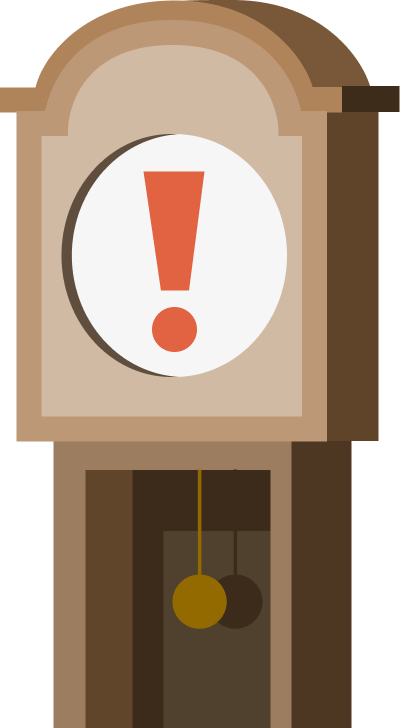
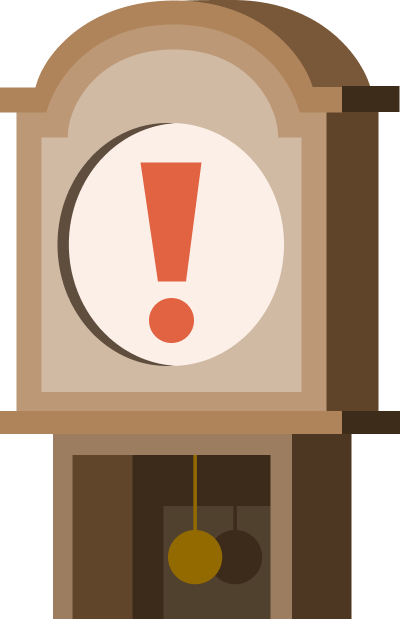
copywriting & visual changes

Changed region(s): [[0.0, 0.1842, 1.0, 1.0], [0.0, 0.0, 1.0, 0.2456], [0.48, 0.3376, 0.51, 0.3683]]

diff --git a/src/features/eventCard/IdentityPromptCard.tsx b/src/features/eventCard/IdentityPromptCard.tsx
@@ -40,26 +40,30 @@ export function IdentityPromptCard() {
   if (saved || sessionUser || storedUser?.email) return null;
 
   return (
-    /* Grid rather than a flex row, so the form can change which cells it
-       occupies without moving in the DOM: on a narrow card it spans both
-       columns (full-width fields), and once the card is wide enough it
-       drops back beside the clock, which then spans both rows and keeps
-       its full-card height. `@container` measures the card itself, not the
-       viewport — the card is the thing that runs out of room. */
+    /* Grid, so the form can change which cells it occupies without moving
+       in the DOM. On a narrow card it spans both columns and the fields get
+       the card's full width; once there is room, it drops back beside the
+       clock, which then spans both rows and runs the card's full height.
+       `@container` measures the card itself, not the viewport — the card is
+       the thing that runs out of room. */
     <section
       aria-labelledby="identity-prompt-title"
-      className="rounded-card @container mb-4 grid w-full grid-cols-[minmax(0,1fr)_auto] overflow-hidden border border-stone-200 bg-white"
+      className="rounded-card @md:bg-brand-sand @container mb-4 grid w-full grid-cols-[minmax(0,1fr)_auto] overflow-hidden border border-stone-200 bg-white"
     >
-      <div className="col-start-1 row-start-1 min-w-0 p-4 pb-0 sm:p-5 sm:pb-0">
+      {/* Stacked layout: a sand band behind the intro and the clock, ending
+          where the form begins, so the clock has a surface to stand on. The
+          boundary is the colour change itself — no rule needed. Side by
+          side the whole card is sand instead, since a band there would
+          leave an L-shaped block around the full-height clock. */}
+      <div className="bg-brand-sand col-start-1 row-start-1 min-w-0 p-4 sm:p-5">
         <h2
           id="identity-prompt-title"
-          className="text-brand-secondary text-base font-bold tracking-tight sm:text-lg"
+          className="text-brand-secondary text-base font-extrabold tracking-wide uppercase sm:text-xl"
         >
-          Konfiguroi ilmo-identiteettisi
+          Aloita täydentämällä ilmotietosi
         </h2>
         <p className="text-brand-dark mt-1 text-sm sm:text-base">
-          Nimi ja sähköposti tähän selaimeen, niin oot valmiina tappeleen
-          paikoista.
+          Näillä tiedoilla ilmoat tapahtumiin jatkossa automaattisesti
         </p>
       </div>
 
@@ -67,7 +71,7 @@ export function IdentityPromptCard() {
           leftover space above the clock rather than splitting it evenly,
           and `contain` keeps the whole case visible — the image is 400×728,
           so cropping it to the column width cut its sides off. */}
-      <div className="col-start-2 row-start-1 w-28 shrink-0 pt-6 pr-3 pl-1 @md:row-span-2 @md:w-44 @md:pt-8 @md:pr-4">
+      <div className="bg-brand-sand col-start-2 row-start-1 min-h-28 w-24 shrink-0 pt-4 pr-3 pl-1 @md:row-span-2 @md:min-h-0 @md:w-36 @md:pt-6 @md:pr-4">
         {/* eslint-disable-next-line @next/next/no-img-element */}
         <img
           src={PROMPT_IMAGE}
@@ -82,7 +86,7 @@ export function IdentityPromptCard() {
 
       <form
         onSubmit={save}
-        className="col-span-2 col-start-1 row-start-2 flex flex-col gap-3 p-4 sm:p-5 @md:col-span-1 @3xl:flex-row @3xl:items-start"
+        className="@md:bg-brand-sand col-span-2 col-start-1 row-start-2 flex flex-col gap-3 p-4 sm:p-5 @md:col-span-1 @3xl:flex-row @3xl:items-start"
       >
         <div className="min-w-0 flex-1">
           <Input

diff --git a/src/features/eventCard/EventCard.tsx b/src/features/eventCard/EventCard.tsx
@@ -72,41 +72,36 @@ export function EventCard({
         >
           <BannerImage src={getEventImage(event.id)} muted={isClosed} />
 
-          {/* A closed event still belongs in the list, but it is not
-              actionable — the drained image and the padlock say so before
-              any text is read. The status line stays red for the people who
-              do read it. */}
-          {isClosed && (
-            <span
-              className={`absolute left-3 rounded-full bg-stone-900/65 p-1.5 text-white ${
-                event.draft ? "top-11" : "top-3"
-              }`}
-              title="Ilmoittautuminen sulkeutunut"
-            >
-              <Lock size={14} strokeWidth={2.5} aria-hidden />
-            </span>
-          )}
-
           {event.draft && (
             <span className="absolute top-0 left-0 bg-amber-600 px-2 py-1 text-[11px] font-bold tracking-wide text-white uppercase">
               Luonnos
             </span>
           )}
 
-          {/* Editorial tag ("Vuoden haippisin"). Deliberately not the solid
-              rectangle glued to the corner: a floating pill that reads as a
-              sticker on the picture. Inverted — dark green ground, lime
-              text — because lime on a pale image barely registered; this
-              way it carries across any picture without borrowing the coral
-              or amber that already mean "closed" and "draft" elsewhere on
-              the card. */}
-          {event.badgeText && (
-            <span
-              className={`shadow-card absolute top-3 right-3 max-w-[70%] truncate rounded-full px-3 py-1.5 text-xs font-bold tracking-wide uppercase sm:text-[0.8125rem] ${BADGE_TONE_CLASS[event.badgeTone]}`}
-            >
-              {event.badgeText}
-            </span>
-          )}
+          {/* Corner stack, so a closed event that also carries an editorial
+              tag shows both instead of one landing on top of the other. */}
+          <div className="absolute top-3 right-3 flex max-w-[80%] flex-col items-end gap-2">
+            {/* A closed event still belongs in the list, but it is not
+                actionable — the drained image and this padlock say so
+                before any text is read. */}
+            {isClosed && (
+              <span className="shadow-card flex items-center gap-1.5 rounded-full bg-stone-900/70 px-3 py-1.5 text-xs font-bold tracking-wide text-white uppercase sm:text-[0.8125rem]">
+                <Lock size={13} strokeWidth={2.75} aria-hidden />
+                Ilmo päättynyt
+              </span>
+            )}
+
+            {/* Editorial tag ("Vuoden haippisin"). Deliberately not the
+                solid rectangle glued to the corner: a floating pill that
+                reads as a sticker on the picture. */}
+            {event.badgeText && (
+              <span
+                className={`shadow-card max-w-full truncate rounded-full px-3 py-1.5 text-xs font-bold tracking-wide uppercase sm:text-[0.8125rem] ${BADGE_TONE_CLASS[event.badgeTone]}`}
+              >
+                {event.badgeText}
+              </span>
+            )}
+          </div>
 
           {/* Two layers rather than one gradient over the whole block: the
               ramp is a fixed height that always sits directly above the

diff --git a/src/features/layout/HeaderAccountMenu.tsx b/src/features/layout/HeaderAccountMenu.tsx
@@ -9,7 +9,7 @@ import {
   type ReactNode,
 } from "react";
 import Link from "next/link";
-import { UserRound } from "lucide-react";
+import { Check, UserRound } from "lucide-react";
 import { useUser } from "@/features/auth/hooks/useUser";
 import { signOut } from "@/server/auth/auth-client";
 import { routes } from "@/utils/routes";
@@ -137,7 +137,7 @@ export function HeaderAccountMenu() {
     ? (displayLine ?? "Tili")
     : displayLine
       ? displayLine
-      : "Ilmo-identiteetti";
+      : "Ilmotiedot";
 
   const triggerSub = sessionUser
     ? subLine
@@ -154,8 +154,8 @@ export function HeaderAccountMenu() {
 
   /* Mobile is the primary target and the header only has room for one of
      the two: the site title or the name + email lines. So below `sm` the
-     trigger collapses to a single icon (with a dot when an identity is
-     already stored) and the text moves into the panel it opens. */
+     trigger collapses to a single icon (with a check badge when an identity
+     is already stored) and the text moves into the panel it opens. */
   return (
     <div className="relative shrink-0">
       <button
@@ -166,8 +166,8 @@ export function HeaderAccountMenu() {
         aria-haspopup="dialog"
         aria-label={
           sessionUser || displayLine
-            ? `Ilmo-identiteetti: ${displayLine ?? subLine ?? ""}`
-            : "Aseta ilmo-identiteetti"
+            ? `Ilmotiedot: ${displayLine ?? subLine ?? ""}`
+            : "Aseta ilmotiedot"
         }
         className="rounded-control focus-visible:ring-offset-brand-primary flex items-center gap-1 p-2 text-white transition-colors hover:bg-white/10 focus-visible:ring-2 focus-visible:ring-white/80 focus-visible:ring-offset-2 focus-visible:outline-hidden sm:max-w-xs sm:gap-1.5 sm:py-1.5 sm:pr-1.5 sm:pl-2.5"
       >
@@ -175,9 +175,11 @@ export function HeaderAccountMenu() {
           <UserRound size={24} strokeWidth={2.25} aria-hidden />
           {displayLine && (
             <span
-              className="bg-brand-lime ring-brand-primary absolute -top-0.5 -right-0.5 size-2.5 rounded-full ring-2"
+              className="bg-brand-lime text-brand-secondary ring-brand-primary absolute -top-1 -right-1 flex size-4 items-center justify-center rounded-full ring-2"
               aria-hidden
-            />
+            >
+              <Check size={10} strokeWidth={4} />
+            </span>
           )}
         </span>
 
@@ -200,7 +202,7 @@ export function HeaderAccountMenu() {
         open={open}
         onClose={closePanel}
         titleId={titleId}
-        title={sessionUser ? "Tilin tiedot" : "Ilmo-identiteetti"}
+        title={sessionUser ? "Tilin tiedot" : "Ilmotiedot"}
         panelRef={panelRef}
         triggerRef={triggerRef}
       >

diff --git a/src/features/eventCard/eventFill.ts b/src/features/eventCard/eventFill.ts
@@ -38,17 +38,22 @@ export function getEventFill(event: EnrichedEvent): EventFill {
   const countText = `${signupCount} ilmoittautunutta`;
 
   if (capacity === null || capacity === 0) {
+    // No seat count to quote when a quota is unlimited.
     return {
       level: "free",
       signupCount,
       capacity,
       label: `${countText} · tilaa jäljellä`,
       countText,
-      availabilityText: "Paljon paikkoja jäljellä",
+      availabilityText: "Ei paikkarajaa",
     };
   }
 
   const ratio = signupCount / capacity;
+  // Same shape in every state, including a full event at 0/30 — a number
+  // people can compare between cards beats three different phrasings.
+  const seatsLeft = Math.max(0, capacity - signupCount);
+  const seatsText = `${seatsLeft}/${capacity} paikkaa jäljellä`;
 
   if (ratio >= 1) {
     return {
@@ -57,7 +62,7 @@ export function getEventFill(event: EnrichedEvent): EventFill {
       capacity,
       label: `${signupCount}/${capacity} · täynnä, ilmoittautuminen jonoon`,
       countText,
-      availabilityText: "Ei paikkoja jäljellä",
+      availabilityText: seatsText,
     };
   }
 
@@ -68,7 +73,7 @@ export function getEventFill(event: EnrichedEvent): EventFill {
       capacity,
       label: `${signupCount}/${capacity} · täyttymässä`,
       countText,
-      availabilityText: "Vähän paikkoja jäljellä",
+      availabilityText: seatsText,
     };
   }
 
@@ -78,7 +83,7 @@ export function getEventFill(event: EnrichedEvent): EventFill {
     capacity,
     label: `${signupCount}/${capacity} · tilaa jäljellä`,
     countText,
-    availabilityText: "Paljon paikkoja jäljellä",
+    availabilityText: seatsText,
   };
 }
 

diff --git a/src/pages/index.tsx b/src/pages/index.tsx
@@ -49,7 +49,7 @@ export default function DesktopPage() {
               <IdentityPromptCard />
             </HydrationZustand>
 
-            <header className="mb-6 w-full">
+            <header className="mt-2 mb-4 w-full">
               <h1 className="text-brand-dark text-xl font-extrabold tracking-tight uppercase sm:text-2xl">
                 Tapahtumat
               </h1>
